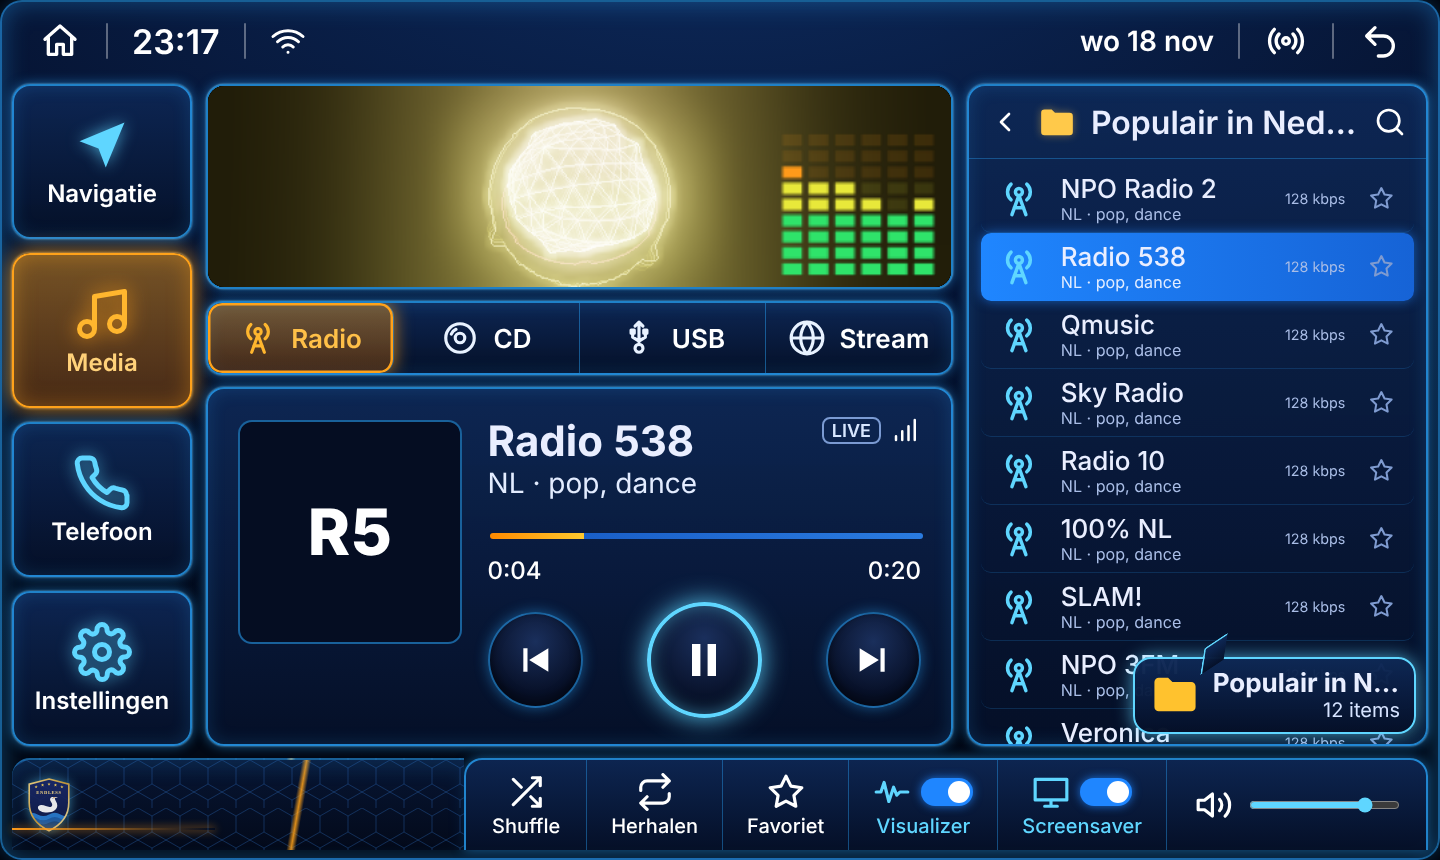
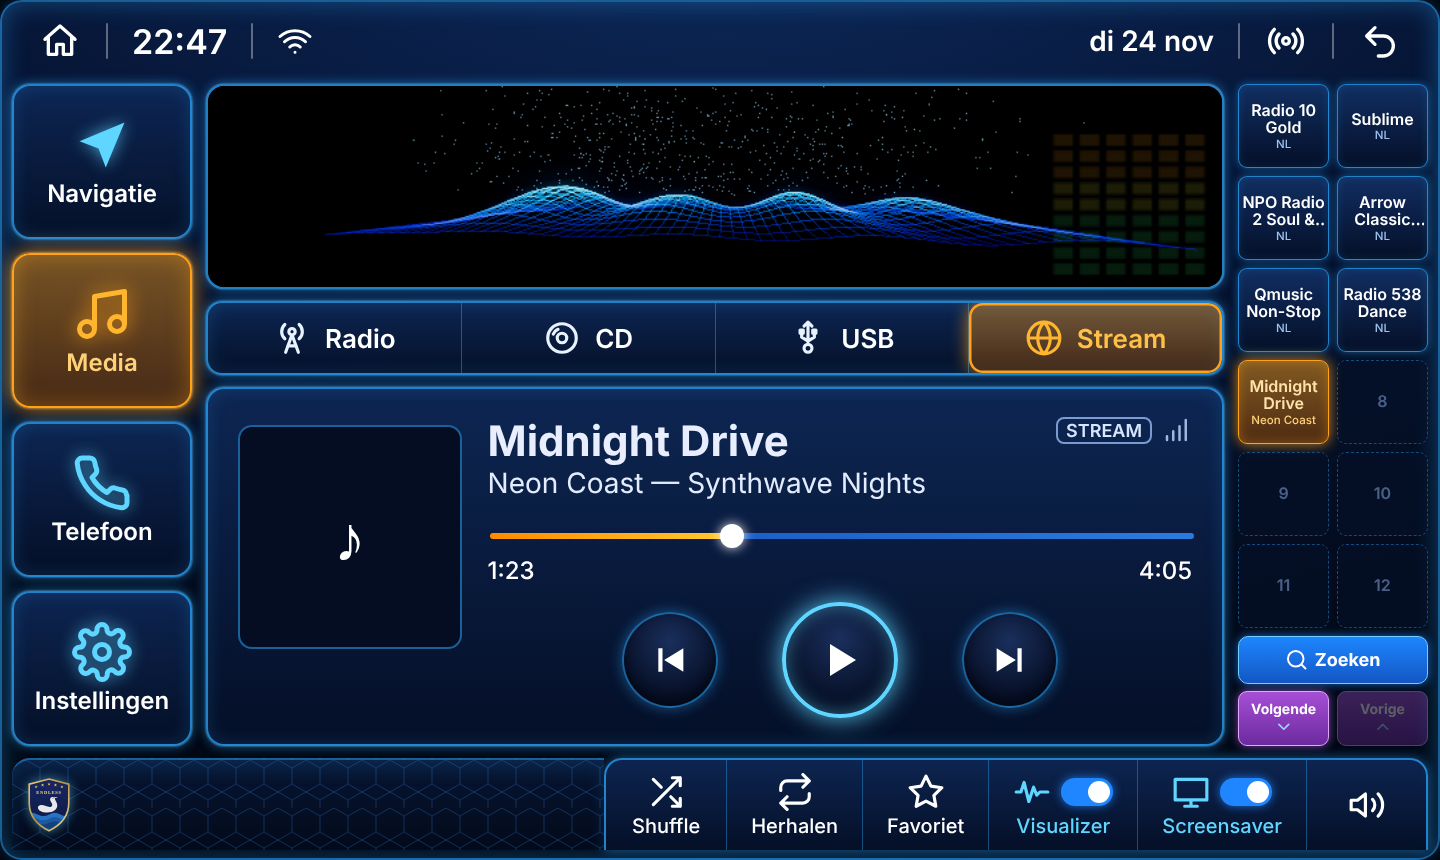
README en screenshots bijgewerkt (voorkeuzeknoppen, autoradio-hardware, automatisch starten); staande voorkeuzeknoppen beter leesbaar
Claude-Session: https://claude.ai/code/session_013TWQdFWS4CzHasfjxbeGjn

diff --git a/www/sw.js b/www/sw.js
@@ -1,5 +1,5 @@
 /* Klankstroom — service worker: app-schil offline beschikbaar (browser/PWA) */
-const CACHE = 'klankstroom-v19';
+const CACHE = 'klankstroom-v20';
 const SHELL = ['./', 'index.html', 'style.css', 'manifest.json', 'icons/wapen.svg', 'icons/icon-192.png', 'icons/icon-512.png',
   'vendor/hls.min.js', 'js/util.js', 'js/storage.js', 'js/id3.js', 'js/md5.js', 'js/player.js', 'js/visualizer.js',
   'js/viz3d.js', 'vendor/three/three.module.js', 'vendor/three/postprocessing/EffectComposer.js', 'vendor/three/postprocessing/RenderPass.js',

diff --git a/www/style.css b/www/style.css
@@ -535,3 +535,7 @@ body.nobars #mtcPanel{padding:0}
 #app.car.portrait .pz-pager{grid-template-columns:1fr 1fr}
 #app.car.portrait #carPanel{grid-column:1;grid-row:2/4}
 #app.car.sheet #carPanel{background:linear-gradient(180deg,#0e2856,#051028)}
+#app.car.portrait .pz{font-size:14px;padding:3px 4px}
+#app.car.portrait .pz-l{-webkit-line-clamp:2}
+#app.car.portrait .pz-sp{min-height:44px;font-size:17px}
+#app.car.portrait .pz-pg{min-height:40px;font-size:13px;flex-direction:row;gap:6px}

diff --git a/README.md b/README.md
@@ -13,11 +13,17 @@ Eén app voor **radio**, **legale gratis muziek**, **je eigen (betaalde) account
 
 ## Screenshots
 
-**Autoradio (9 inch, 1024×600):** tegels links, visualizer + speler in het midden, bladerlijst rechts
+**Autoradio (9 inch, 1024×600):** tegels links, visualizer en speler in het midden, voorkeuzeknoppen rechts
 
-![Autoradio-indeling met radio en Neon-bergen](docs/screenshots/autoradio-radio.png)
-
-![Autoradio-indeling met USB-mappen en VizLab-straaljager](docs/screenshots/autoradio-usb-straaljager.png)
+| Radio (FM-tuner van de auto) | CD |
+|---|---|
+| ![Radio met FM-voorkeuzeknoppen](docs/screenshots/autoradio/1-radio.png) | ![CD met tracknummers](docs/screenshots/autoradio/2-cd.png) |
+| **USB / SD-kaart: mappen als knoppen** | **Stream: zelf geprogrammeerde knoppen** |
+| ![USB-mappen](docs/screenshots/autoradio/8-usb.png) | ![Stream-voorkeuzes](docs/screenshots/autoradio/4-media-stream.png) |
+| **Groot zoekscherm** | **Telefoon via Bluetooth** |
+| ![Zoeken](docs/screenshots/autoradio/7-zoeken.png) | ![Telefoon](docs/screenshots/autoradio/3-telefoon-bt.png) |
+| **Instellingen** | **Visualizer volledig scherm (één tik)** |
+| ![Instellingen](docs/screenshots/autoradio/6-instellingen.png) | ![Volledig scherm](docs/screenshots/autoradio/5-volledig-scherm.png) |
 
 | Telefoon | Pc |
 |---|---|
@@ -41,7 +47,9 @@ Eén app voor **radio**, **legale gratis muziek**, **je eigen (betaalde) account
 | 💽 **Bibliotheek** | Lokale muziek met ID3-titels en -hoezen. Werkt **volledig offline**. |
 | 📡 **Scanknop** | **Android:** interne opslag, **SD-kaart**, USB-sticks, **USB-CD-speler**, de ingebouwde **FM-radio**-app van je telefoon en audio-ingangen. **Pc:** alle schijven, USB/SD, **CD-station** en de map Muziek. |
 | 🌀 **Visualizer** | De 11 scènes van het **Klankstroom VizLab** (Straaljager, Auto, Windhond, Caleidoscoop, Wormgat, Golfbergen, Sterrenstorm, Oscilloscoop, Klankbol, Boombox, Fractal-caleidoscoop), **Neon-bergen** en de 3D-scènes in vizz.fm-stijl, elk met **16 varianten**, plus klassieke effecten in Drempels-stijl. Eén tik = volledig scherm; met 🌀 zet je hem **aan/uit**. Afstellen via Instellingen → VizLab openen. |
-| 🚗 **Autoradio-indeling** | Grote tegels (Navigatie, Media, Telefoon, Instellingen), tabbladen Radio/CD/USB/Stream en een bladerlijst. Navigatie, Telefoon, FM en CD openen de apps van je autoradio. Staande variant voor de telefoon. |
+| 🚗 **Autoradio-indeling** | Grote tegels (Navigatie, Media, Telefoon, Instellingen), tabbladen Radio/CD/USB/Stream en rechts **voorkeuzeknoppen** zoals op een echte autoradio: FM-zenders, CD-tracks, de **mappen van je SD-kaart** en zelf te programmeren streams (3 pagina's van 12, lang drukken = opslaan/wissen). Zoeken gebeurt in een groot, duidelijk zoekscherm. Lijsten, instellingen en telefoon schuiven over het midden. Staande variant voor de telefoon. |
+| 📻 **Autoradio-hardware (Microntek/HCT MTCD/MTCE, bv. PX5)** | Klankstroom stuurt de radio rechtstreeks aan, zonder de apps van de fabrikant: **FM-tuner** (afstemmen, zoeken, scannen, RDS-naam en -tekst), **CD/DVD** (afspelen, tracks, spoelen, uitwerpen), **Bluetooth-telefoon** (bellen, opnemen, ophangen, kiespad, belgeschiedenis, muziek van je telefoon) en de **navigatie-onderdrukking** (radio zachter als de navigatie spreekt). De knoppen op de radio en het stuur werken mee en zijn zelf te koppelen. Zie [docs/mtce-api.md](docs/mtce-api.md). |
+| ⏻ **Automatisch starten** | Start mee als de radio opstart of het contact aangaat, en speelt verder waar je was (zender, stream of map). Kiest je Radio, dan speelt de laatste zender meteen. Beide uit te zetten. |
 | 🖥 **Screensaver** | Na een instelbare tijd zonder bediening verschijnt de visualizer schermvullend, met titel en klok. Zet je hem aan of uit met de knop 🖥 of in Instellingen. |
 
 ### Sneltoetsen (pc)
@@ -77,9 +85,9 @@ De webversie draait met elke statische server: `npx http-server www`.
 
 - **Zwakke autoradio's (bv. PX5/RK3368 met PowerVR):** de app herkent de grafische chip en zet de **lichte modus** aan: geen gloedschaduwen, visualizer op halve resolutie zonder bloom, max. 30 beelden/s. Instelbaar onder Instellingen → Prestaties. In de autoradio-stijl wordt de Android-systeembalk verborgen voor meer ruimte (uit te zetten).
 
-- **Visualizer bij radio:** veel radiostreams sturen geen CORS-headers. In de browser kan de app het geluid van zulke streams dan niet analyseren, en volgt de visualizer een gesimuleerd ritme. In de pc-app en voor lokale bestanden reageert hij altijd op het echte geluid.
+- **Visualizer bij radio:** veel radiostreams sturen geen CORS-headers. In de browser kan de app het geluid van zulke streams dan niet analyseren, en volgt de visualizer een gesimuleerd ritme. In de pc-app en de Android-app reageert hij op het echte geluid; blijft de analyse in Android stil, dan luistert de app mee via Android zelf (vraagt één keer microfoontoestemming, er wordt niets opgenomen). FM, CD en Bluetooth op de autoradio lopen buiten Android om; daar volgt de visualizer een geschat ritme.
 - **Audio-CD’s:** Windows en Android geven CD-audio (CDDA) niet als bestand vrij. Data-CD’s met MP3’s werken wel. Een losse CD-speler of radio kun je via een **lijn-ingang** laten meespelen (scanknop → Audio-ingangen).
-- **FM-radio:** Android heeft geen standaard-API voor de FM-chip. De app zoekt de FM-app van de fabrikant (Samsung, Xiaomi, Motorola, Qualcomm/OnePlus, enz.) en opent die. De meeste nieuwe telefoons hebben geen FM meer.
+- **FM-radio:** op Microntek/HCT-autoradio's bedient de app de tuner zelf. Op andere apparaten heeft Android geen standaard-API voor de FM-chip; dan zoekt de app de FM-app van de fabrikant (Samsung, Xiaomi, Motorola, Qualcomm/OnePlus, enz.) en opent die.
 - **Spotify:** maak een gratis app op developer.spotify.com en vul de Client-ID en Redirect-URI in die op de Accounts-pagina staan (pc: `http://127.0.0.1:43117/index.html`, Android: `nl.endless.klankstroom://spotify`).
 - Je inloggegevens blijven alleen op je eigen apparaat.
 
@@ -95,8 +103,10 @@ www/                 de app (HTML/CSS/JS), gedeeld door web, pc en Android
   js/accounts.js     Spotify, Navidrome/Subsonic
   js/library.js      lokale bibliotheek (IndexedDB)
   js/scan.js         scanknop
+  js/mtc.js          autoradio-hardware: FM, CD/DVD, Bluetooth, navigatie, radioknoppen
+  js/presets.js      voorkeuzeknoppen
 electron/            pc-app
-android-plugin/      Java: MediaScan-plugin + achtergrond-afspeeldienst
+android-plugin/      Java: MediaScan-plugin, MtcBridge (autoradio), BootReceiver (automatisch starten), afspeeldienst
 scripts/patch-android.js
 .github/workflows/build.yml
 ```
